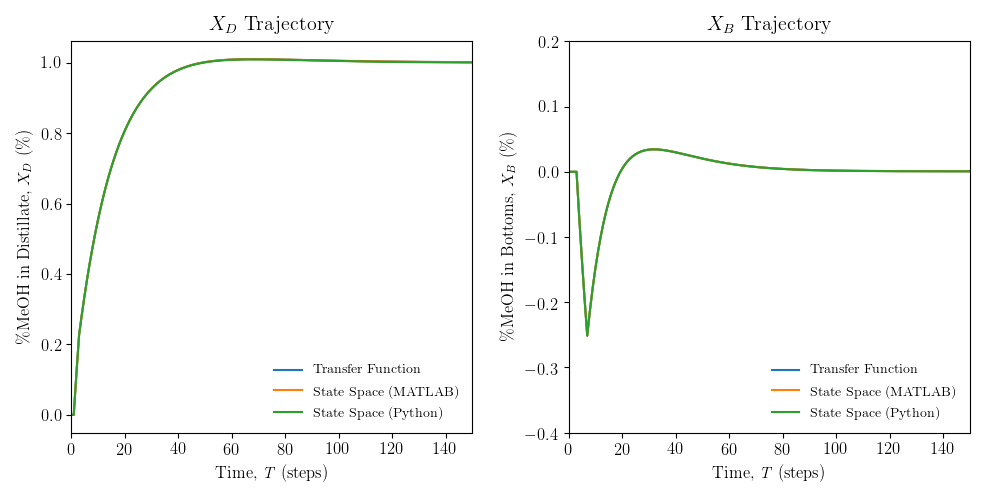
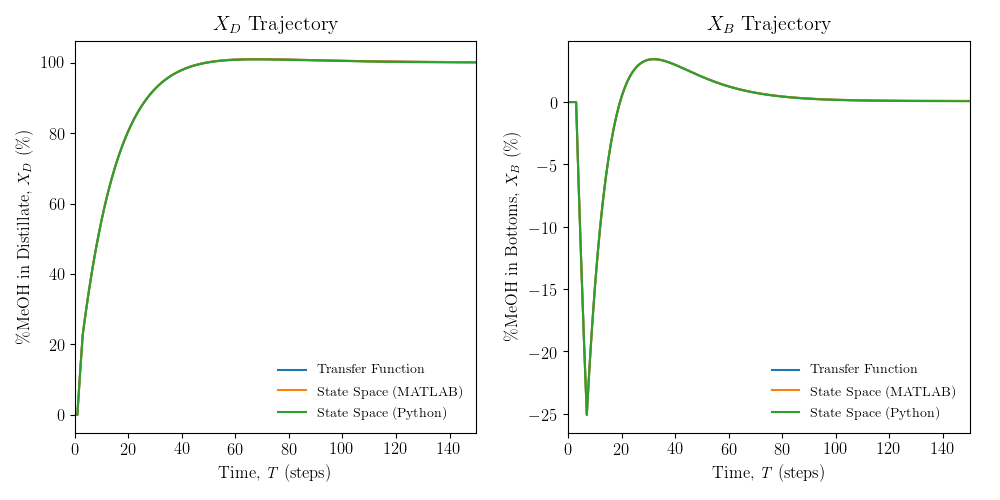
Updates to IOL section

diff --git a/chapters/Chapter9:ImperialOilProject.tex b/chapters/Chapter9:ImperialOilProject.tex
@@ -1,11 +1,13 @@
-One area identified for potential reinforcement learning application is in the design of a fault tolerant controller.  Fault tolerant controllers activate when a process fault occurs, rendering normal controllers useless [citation required]. The objective of fault tolerant controllers are to guide the process out of the fault situation safely.  Subsequently, process engineers can diagnose the problem and re-activate the normal process controllers.  
+Distillation towers are integral units in industrial processes that require the separation of
+mixtures of different components into products based on their relative volatility. Heavy oil
+upgrading facilities utilize distillation towers to separate feed mixtures into various products based on their specific gravity.  For many chemical plants, the distillation tower can account up to 50\% of the total operating cost, making optimization of the distillation tower a low hanging fruit in terms of cost savings.  
 
-Farivar and Ahmadabadi (2015) has designed fault tolerant controllers using reinforcement learning for a class of unknown linear systems \cite{ahmad}.  Zhang and Gao (2018) applied reinforcement learning fault tolerant controllers to flux cored wired systems \cite{zhang_gao}.  In this project, a reinforcement learning fault tolerant controller will be built for the mitigation of flooding in an industrial distillation tower. 
+Flooding is a common and costly problem in industrial distillation towers.  Flooding occurs when liquids are entrained in the vapour due to abnormally high vapour flow rates.  Moreover, the excess pressure also causes liquid holdup in the higher plates of the distillation tower. Ultimately, this leads to significant reduction in separation efficiency causing a loss in production, wasted energy, and off-spec products.
 
-Flooding is one of the most common problems in industrial distillation towers.  Flooding causes XXX damage and XXX. Reinforcement learning can be used to create an experience driven, online learning fault tolerant controller to mitigate damage caused by flooding in distillation towers.  In this chapter, the process will first be introduced. Then, common faults will be introduced into the system.  Following that, PID, MPC and RL will all be used to try to guide the system out of the fault situation.  Finally, the performance of each controller will be compared.
+In this chapter, a reinforcement learning based fault tolerant controller will be introduced to mitigate damage caused by flooding events in distillation towers.  The process will first be introduced. Then, common faults will be introduced into the system.  Following that, PID, MPC and RL will all be used to try to guide the system out of the fault situation.  Finally, the performance of each controller will be compared.
 
 \section{Process Introduction}
-The Wood-Berry distillation tower, located in the Unversity of Alberta, will be used to compare the performance between PID, MPC, and RL controllers in a fault positive scenario.  
+The Wood-Berry distillation tower, located in the University of Alberta, will be used for this study to compare the performance between PID, MPC, and RL controllers in a fault positive scenario.  
 
 \subsection{Process Description}
 Distillation is the process of separating a liquid or vapour mixture of two or more components into desirable purities through the addition or removal of heat. The fundamental theory of distillation is that low boiling point components are richer in the vapour of a boiling mixture, while the liquids would contain more of the less volatile components \cite{distillation_intro}.  Liquids exit the bottom of the distillation tower and is sent to a reboiler, where heat is added to vaporize any straggling high volatility product to ensure maximum separation. Similarly, vapour from the top of the tower is sent to a condenser, where heat is removed and additional low volatility components may be recovered. The condensed vapour is collected in the reflux drum, and will be recycled back into the distillation tower. Typically, distillation columns are large vertical drums with evenly spaced trays to enhance separation of the vapour and liquid components \cite{mpc_for_distillation_tower}.  The tower is separated into two sections.  The rectifying section is located between the feed tray and the top of the column and aims to concentrate light components in the vapour phase.  Moreover, the stripping section is located between the feed tray and the column bottom and is used to concentrate the heavier components in the liquid phase \cite{henry_distillation}.
@@ -15,11 +17,11 @@ A process flow diagram of the Wood-Berry tower is shown in Figure \ref{fig: wood
 \begin{figure}[h]
     \centering
     \includegraphics[scale=0.45]{images/woodberry.png}
-    \caption{A schematic diagram of a binary distillation tower.  Original figure from Dr. Seborg from UC Santa Barbara with minor edits for enhanced clarity.}
+    \caption{A schematic diagram of a binary distillation tower.  Original figure from Dr. Seborg from UC Santa Barbara with edits for enhanced clarity.}
     \label{fig: woodberry}
 \end{figure}
 
-In the Wood-Berry distillation tower, the goal is the complete separation of methanol and water.  Methanol has a boiling point of 64.7 \textdegree C whereas pure liquid water has a boiling point of 100 \textdegree C \cite{sonntag_thermo}. Thus, making methanol the distillate and water is the bottoms product. $X_D$ and $X_B$ are the distillate and bottoms $\%MeOH$, respectively. The objective is to achieve 100\% $X_D$, while achieving 0\% $X_B$. Additional detailed information about the operation and inner workings of distillation towers can be found in \cite{henry_distillation}.  
+In the Wood-Berry distillation tower, the goal is the complete separation of methanol and water.  Methanol has a boiling point of 64.7 \textdegree C whereas pure liquid water has a boiling point of 100 \textdegree C \cite{sonntag_thermo}. Thus, making methanol the distillate and water is the bottoms product. $X_D$ and $X_B$ are the distillate and bottoms $\%MeOH$, respectively. The two manipulated variables in the system are the reflux flow rate, $R \; (lb/min)$ and the steam flow rate, $S \; (lb/min)$.  The objective of the manipulated variables is to achieve 100\% $X_D$, while maintaining $X_B$ at 0\%. Additional detailed information about the operation and inner workings of distillation towers can be found in \cite{henry_distillation}.  
 
 \subsection{Wood-Berry Models}
 The transfer functions that realize  the Wood-Berry distillation tower is given in Equation \ref{eq: woodberry_tf} \cite{mpc_for_distillation_tower}.
@@ -249,7 +251,7 @@ The optimal solution for the Wood-Berry distillation column is given by Equation
 {\setstretch{0.5}
 \begin{equation}
     \centering
-    X_D^* = 1
+    X_D^* = 100
     \label{eq: xd_optimal}
 \end{equation}
 
@@ -294,7 +296,7 @@ $X_D^* = 0.767(16.7)u_1 - 0.900(21.0)u_2$
 
 \begin{equation}
     \centering
-    1 = 12.8u_1 - 18.9u_2
+    100 = 12.8u_1 - 18.9u_2
     \label{eq: opt_xd}
 \end{equation}
 }
@@ -315,12 +317,12 @@ Combining Equations \ref{eq: opt_xd} and \ref{eq: opt_xb}, the optimal steady st
 {\setstretch{0.5}
 \begin{equation}
     \centering
-    u_{1, ss}^* = 0.157
+    u_{1, ss}^* = 15.7
 \end{equation}
 
 \begin{equation}
     \centering
-    u_{2, ss}^* = 0.053
+    u_{2, ss}^* = 5.3
 \end{equation}
 }
 
@@ -334,7 +336,13 @@ Figures \ref{fig: optimal_ss_xd_xb} show the trajectories of $X_D$ and $X_B$ giv
      \label{fig: optimal_ss_xd_xb}
 \end{figure}
 
-\section{Fault in the System}
+\section{Introduction to Fault Tolerant Control}
+
+Inevitably, all process equipment such as sensors, actuators, pumps, will malfunction or breakdown along their operational lifetime. Therefore, it is desirable to to have a fault tolerant control system (FTCS) in place to accommodate for these inevitable failures and ensure an acceptable level of performance during such events. The application of FTCS in the industrial environment results in increased operation robustness, production, and safety. The complete fault tolerant control system requires two algorithms: i) Fault prediction system to identify the location and type of fault. ii) Fault tolerant controller to "safe land" the process during a fault positive situation \cite{process_faults}.  This particular study is only concerned with the fault tolerant controller design, and assumes that the fault is appropriately identified using existing methods.
+
+One area identified for potential reinforcement learning application is in the design of a fault tolerant controller.  Fault tolerant controllers activate when a process fault occurs, rendering normal controllers useless [citation required]. The objective of fault tolerant controllers are to guide the process out of the fault situation safely.  Subsequently, process engineers can diagnose the problem and re-activate the normal process controllers when deemed acceptable.  
+
+Farivar and Ahmadabadi (2015) has designed fault tolerant controllers using reinforcement learning for a class of unknown linear systems \cite{ahmad}.  Zhang and Gao (2018) applied reinforcement learning fault tolerant controllers to flux cored wired systems \cite{zhang_gao}.  In this project, a reinforcement learning fault tolerant controller will be built for the mitigation of flooding in an industrial distillation tower. 
 
 \section{Controlling using PID}
 A PI controller was selected instead of a P or PID controller, because PI controllers are shown to achieve superior control performances compared to their counterparts \cite{PI_controller}.

diff --git a/chapters/Chapter3:ReinforcementLearning.tex b/chapters/Chapter3:ReinforcementLearning.tex
@@ -11,7 +11,7 @@ The \textit{k}-armed bandit is the fundamentals to understanding modern reinforc
 
 \begin{equation}
     \centering
-    q_*(a) = \mathbb{E}[R_t | A_t = a]
+    q_*(a) = \mathbb{E}[R_t | U_t = u]
     \label{eq: value}
 \end{equation}
 
@@ -21,13 +21,12 @@ Action selection based on estimating the value of actions are called \textbf{Act
 
 \begin{equation}
     \centering
-    Q_t(a) = \frac{Sum \; of \; rewards \; when \; a \; taken \; prior \; to \; t}
-    {Number \; of \; times \; a \; taken \; prior \; to \; t} 
-    = \frac{\sum_{i=1}^{t - 1} R_i \mathbbm{1}_{A_i=a}}
-    {\sum_{i = 1}^{t - 1} \mathbbm{1}_{A_i = a}}
+    Q_t(a) = \
+    = \frac{\sum_{i=1}^{t - 1} R_i \mathbbm{1}_{U_i=u}}
+    {\sum_{i = 1}^{t - 1} \mathbbm{1}_{U_i = u}}
     \label{eq: value_est}
 \end{equation}
-where $\mathbbm{1}$ denotes 1 if the condition is true, else 0.  As $t \rightarrow \infty$, $Q_t(a) \rightarrow q_*(a)$.  Action selection is based on Equation \ref{eq: bandit_action_selection}.
+where $\mathbbm{1}$ equals 1 if the condition is true, else 0.  $R_i$ is the reward obtained at the $i^{th}$ episode through selecting action, $U_i$.  Intuitively, the numerator is the sum of rewards when action, $u$, was taken prior to $t$.  Likewise, the denominator is the number of times action, $u$, was taken prior to $t$. As $t \rightarrow \infty$, $Q_t(a) \rightarrow q_*(a)$.  Action selection is based on Equation \ref{eq: bandit_action_selection}.
 
 \begin{equation}
     \centering

diff --git a/main.tex b/main.tex
@@ -95,7 +95,7 @@
 \chapter{Comparison of RL and MPC}
 \input{chapters/Chapter5:ComparisonofRLandMPC.tex}
 
-\chapter{Imperial Oil: Fault Tolerant Control using RL}
+\chapter{Imperial Oil: Distillation Flooding Fault-Tolerant Control using RL}
 \input{chapters/Chapter9:ImperialOilProject.tex}
 
 \printbibliography
